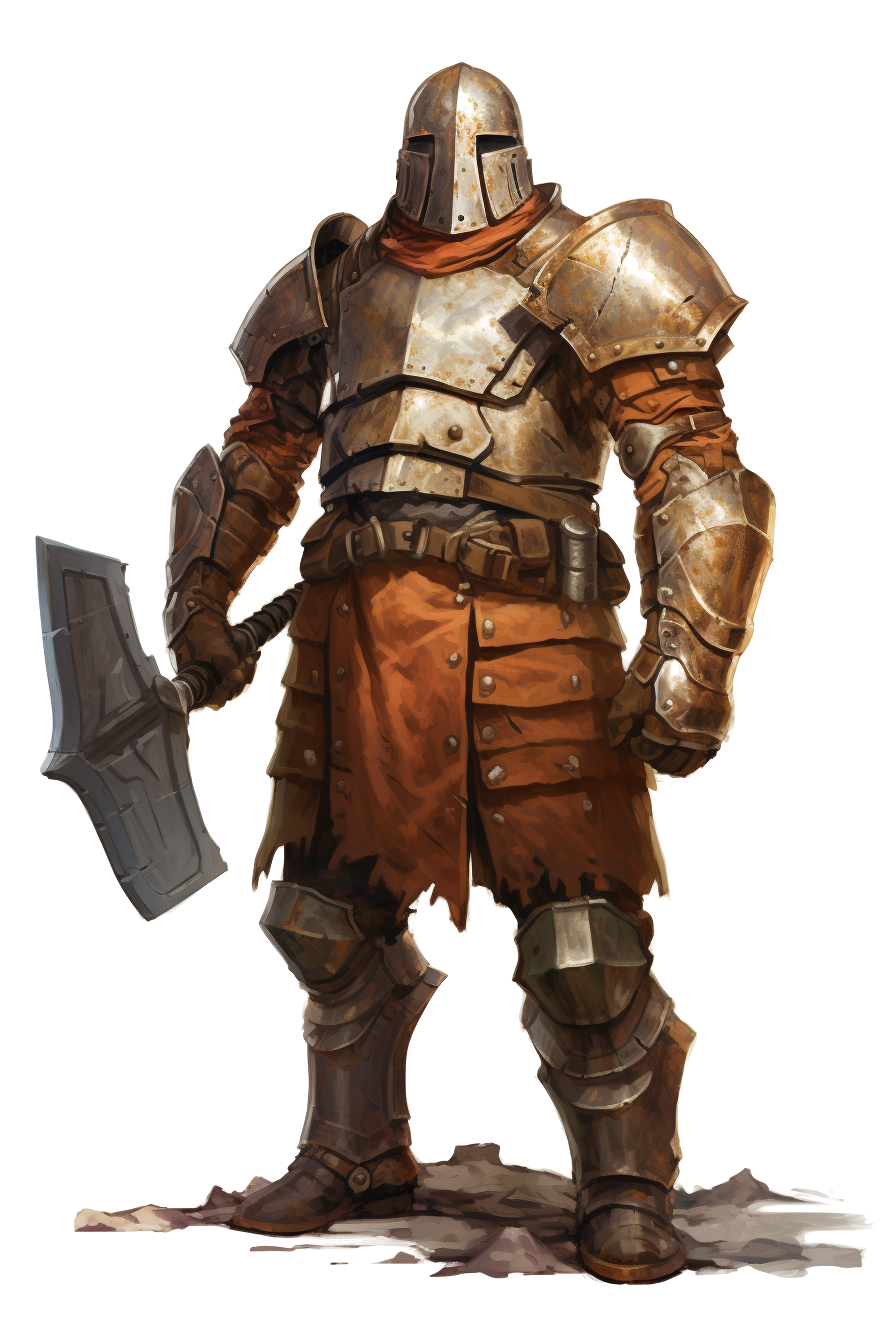
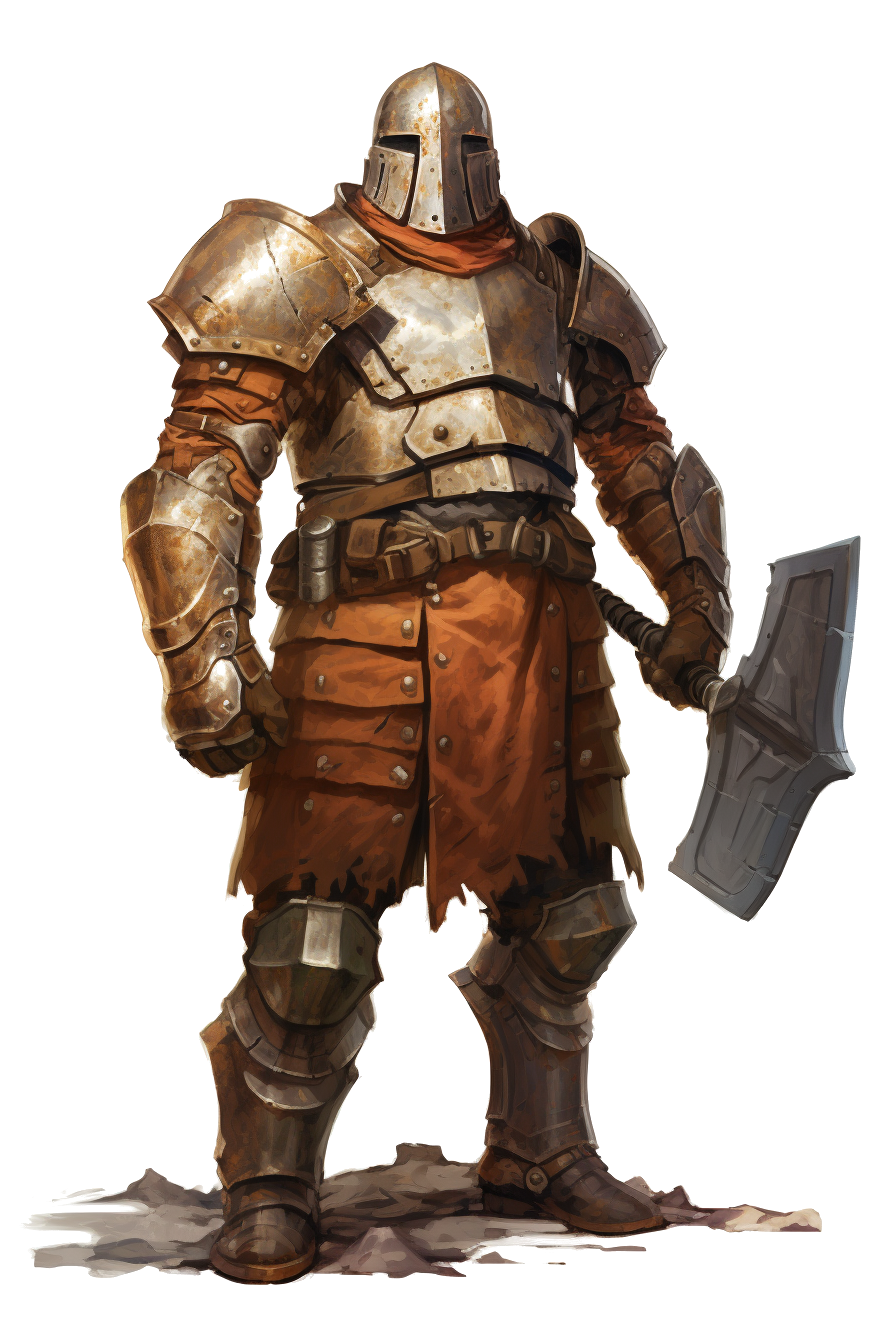
added image flip for facing

diff --git a/Project/Fall2020_CSC403_Project/FrmLevel.cs b/Project/Fall2020_CSC403_Project/FrmLevel.cs
@@ -74,7 +74,7 @@ namespace Fall2020_CSC403_Project
         private void FrmLevel_Load(object sender, EventArgs e)
         {
 
-            InitializeArea();
+            InitializeLevel();
 
             Game.CurrentArea = Game.Areas[this.AreaNum];
 
@@ -256,7 +256,7 @@ namespace Fall2020_CSC403_Project
             this.gameAudio.PlayLooping();
 
             SignPanel.Size = new Size(Screen.PrimaryScreen.Bounds.Width * 7 / 8, Screen.PrimaryScreen.Bounds.Height * 7 / 8);
-            SignPanel.Location = new Point(Screen.PrimaryScreen.Bounds.Width / 2 - SignPanel.Width / 2, 0);
+            SignPanel.Location = new Point(Screen.PrimaryScreen.Bounds.Width / 2 - SignPanel.Width / 2, Screen.PrimaryScreen.Bounds.Height * 1/14);
 
             TravelLabel.Size = new Size(SignPanel.Size.Width, SignPanel.Size.Height / 2);
             TravelLabel.Font = new Font("NSimSun", TravelLabel.Size.Height / 4);
@@ -268,11 +268,11 @@ namespace Fall2020_CSC403_Project
 
         }
 
-        private void InitializeArea()
+        private void InitializeLevel()
         {
             Game.Areas = new Area[10];
             Game.Areas[0] = new Area("Malek's Mountain", 710, Terrain.Biome.Mountain, 0.1);
-            Game.Areas[1] = new Area("Village Ruins", 901, Terrain.Biome.Village);
+            Game.Areas[1] = new Area("Village Ruins", 908, Terrain.Biome.Village, 0.1);
             Game.Areas[2] = new Area("Buddy Beachfront", 512, Terrain.Biome.Beach, 0.12);
             Game.Areas[3] = new Area("Uphill Hill", 789, Terrain.Biome.Grassland, 0.15);
             Game.Areas[4] = new Area("Plainsfield", 678, Terrain.Biome.Grassland, 0.12);
@@ -829,7 +829,8 @@ namespace Fall2020_CSC403_Project
             this.score = 0;
             gameAudio.PlayLooping();
 
-            InitializeArea();
+            this.AreaNum = 4;
+            InitializeLevel();
 
             this.gameOver = false;
             Game.player = new Player(Game.player.Name, Game.player.Pic, Game.player.archetype);
@@ -844,9 +845,14 @@ namespace Fall2020_CSC403_Project
             ExitButton.Enabled = false;
             MainMenuButton.Enabled = false;
 
+            for (int i = 0; i < 9; i++)
+            {
+                setAdjacency(i);
+            }
 
             AreaSelect();
             InitializeCurrentArea();
+            UpdateHealthBars(playerCurrentHealth);
         }
 
         private void MainMenuButton_Click(object sender, EventArgs e)

diff --git a/Project/MyGameLibrary/Entity.cs b/Project/MyGameLibrary/Entity.cs
@@ -28,6 +28,7 @@ namespace Fall2020_CSC403_Project.code
         public string Name { get; private set; }
 
         public Facing facing { get; set; }
+        private Facing LastFacing { get; set; }
 
 
         public enum Facing
@@ -43,14 +44,22 @@ namespace Fall2020_CSC403_Project.code
             this.Pic = Pic;
             this.Position = new Position(this.Pic);
             this.Collider = new Collider(this.Pic);
+            this.facing = Facing.Right;
+            this.LastFacing = this.facing;
         }
         
         public void Move()
         {
+            if (this.LastFacing != this.facing)
+            {
+                this.Pic.Image.RotateFlip(RotateFlipType.RotateNoneFlipX);
+            }
+            this.LastFacing = this.facing;
             this.LastPosition = Position;
             this.Position = new Position(Position.x + MoveSpeed.x, Position.y + MoveSpeed.y);
             this.Pic.Location = new Point((int)this.Position.x, (int)this.Position.y);
             this.Collider.MovePosition((int)Position.x, (int)Position.y);
+
         }
 
 
